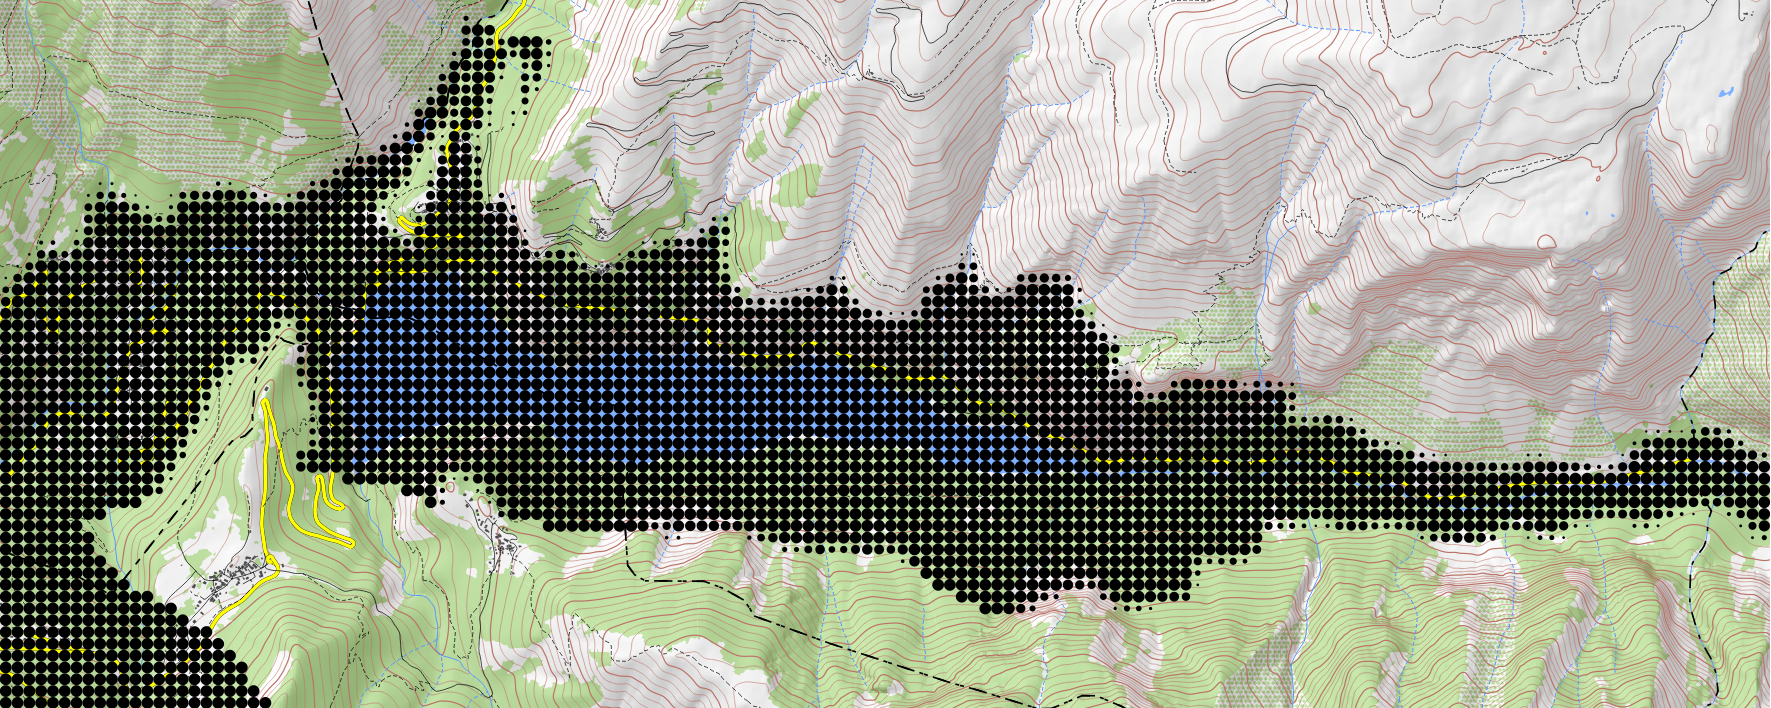
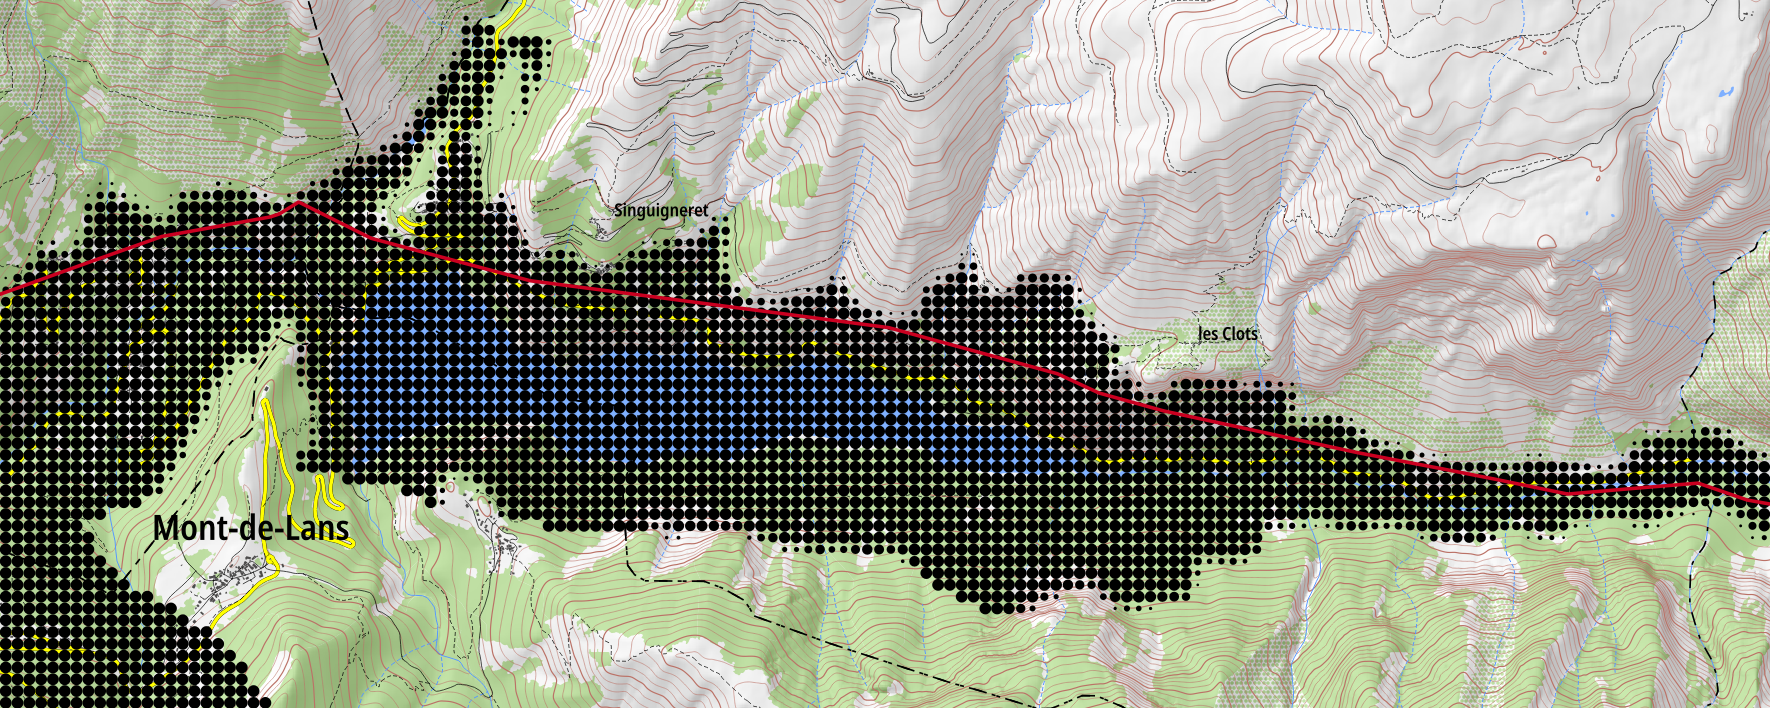
Maj figure 6.5

diff --git a/src/Corps/Partie2/Chapitre6/figures/Raster_ZLC_ALTINF_HT.tex b/src/Corps/Partie2/Chapitre6/figures/Raster_ZLC_ALTINF_HT.tex
@@ -7,12 +7,20 @@
     \node (P2) at ([yshift=-.5cm]image.south east) {};
     \node (P1) at ([yshift=-.5cm]image.south west) {};
     %
+    \node (rect) [anchor=north west, minimum width=1cm,minimum
+    height=.25cm] at ([yshift=-.25cm]P1) {}; \path[draw=RdBu-9-1, line
+    width=.4mm](rect.west) --([xshift=-1ex]rect.south) -- ([xshift=1ex]rect.north)
+    -- (rect.east);
+    \node[anchor=west, font=\tiny\vphantom{Ag}, text width = 4cm] at
+    ([xshift=1ex]rect.east) {Ligne électrique utilisée comme
+      \emph{objet de référence}};
+
     \foreach \x [evaluate=\xshift using \x/10, evaluate=\rad using (\x * .0004) + .01] in {0,...,100}
     {
-      \draw[fill=black,draw=none, below] ([xshift=\xshift cm, yshift=-.5cm]P1) circle [radius=\rad cm];
+      \draw[fill=black,draw=none, below] ([xshift=\xshift cm, yshift=-1.5cm]P1) circle [radius=\rad cm];
     }
-    %
-    \path(P1 |- 0cm,-1cm) --++ (10,0)
+    % 
+    \path(P1 |- 0cm,-2cm) --++ (10,0)
     node[et,pos=0] {0}
     node[et,pos=.1] {0,1}
     node[et,pos=.2] {0,2}
@@ -23,6 +31,6 @@
     % Échelle
     \draw[-] (P2 |- -1cm,-1cm) --++ (-1,0) node[et,pos=.5] {\SI{500}{\meter}};
     % Légende détaillée
-    \path (P1) -- (P2) node[pos=.5, yshift=-1cm] {\tiny Pour la légende détaillée du fond topographique voir \autoref{anx:topo_leg}. Sources: BD TOPO 2018, BD ALTI 2018.}; 
+    \path (P1) -- (P2) node[pos=.5, yshift=-2cm] {\tiny Pour la légende détaillée du fond topographique voir \autoref{anx:topo_leg}. Sources: BD TOPO 2018, BD ALTI 2018.}; 
   \end{scope}
 \end{tikzpicture}
